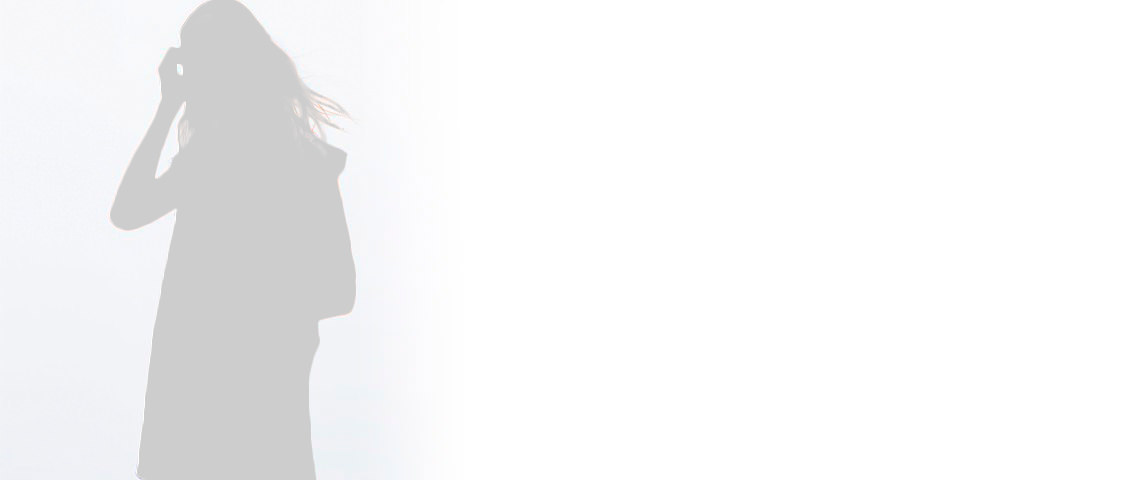
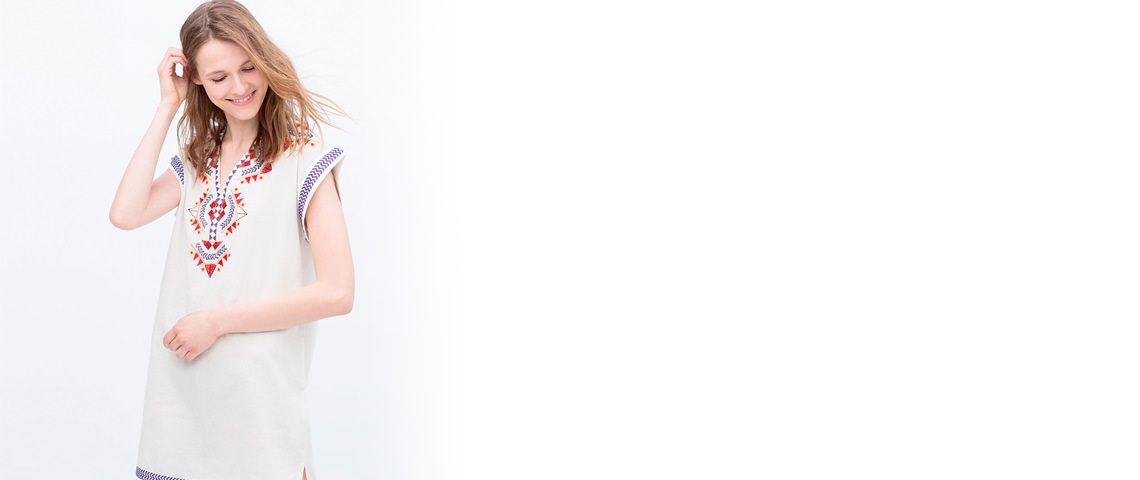
slider

Changed region(s): [[0.0921, 0.0, 0.3377, 1.0]]

diff --git a/src/app/component/slider/slider.component.html b/src/app/component/slider/slider.component.html
@@ -1,0 +1,48 @@
+<!-- Slider -->
+<div class="carousel slide" data-bs-ride="carousel">
+    <ol class="carousel-indicators">
+        <li data-bs-target="#fr-slider" data-bs-slide-to="0" class="color-ccc" [ngClass]="openActive1" (click)="changeSlider(0)"></li>
+        <li data-bs-target="#fr-slider" data-bs-slide-to="1" class="color-ccc" [ngClass]="openActive2" (click)="changeSlider(1)"></li>
+        <li data-bs-target="#fr-slider" data-bs-slide-to="2" class="color-ccc" [ngClass]="openActive3" (click)="changeSlider(2)"></li>
+    </ol>
+    <div class="carousel-inner">
+        <div class="carousel-item active">
+            <img src="{{ imageSlider }}" alt="">
+            <div class="carousel-caption" [innerHTML]="textSlider">
+                <!-- <h3>MEGA SALE -30%</h3>
+                <p>Winter collection for women's. <br>We all have choices for you. Check it out!</p>
+                <p class="fr-slider-more-wrap">
+                    <a class="fr-slider-more btn btn-primary" href="#">View collection</a>
+                </p> -->
+            </div>
+        </div>
+        <!-- <div class="carousel-item">
+            <img src="{{ imageSlider }}" alt="">
+            <div class="carousel-caption">
+                <h3>NEW COLLECTION</h3>
+                <p>Lorem ipsum dolor sit amet, consectetur adipisicing elit.<br>Aliquam consequuntur dolorem doloribus fuga harum</p>
+                <p class="fr-slider-more-wrap">
+                    <a class="fr-slider-more btn btn-primary" href="#">Shopping now</a>
+                </p>
+            </div>
+        </div>
+        <div class="carousel-item">
+            <img src="assets/client/img/slider/slide3.jpg" alt="">
+            <div class="carousel-caption">
+                <h3>SUMMER TRENDS</h3>
+                <p>Lorem ipsum dolor sit amet, consectetur adipisicing elit.<br>Aliquam consequuntur dolorem doloribus fuga harum</p>
+                <p class="fr-slider-more-wrap">
+                    <a class="fr-slider-more btn btn-primary" href="#">Start shopping</a>
+                </p>
+            </div>
+        </div> -->
+    </div>
+    <a class="carousel-control-prev" href="#fr-slider" role="button" data-bs-slide="prev">
+        <span class="carousel-control-prev-icon" aria-hidden="true"></span>
+        <span class="visually-hidden">Previous</span>
+    </a>
+    <a class="carousel-control-next" href="#fr-slider" role="button" data-bs-slide="next">
+        <span class="carousel-control-next-icon" aria-hidden="true"></span>
+        <span class="visually-hidden">Next</span>
+    </a>
+</div>

diff --git a/src/app/component/slider/slider.component.ts b/src/app/component/slider/slider.component.ts
@@ -1,0 +1,56 @@
+import { Component } from '@angular/core';
+
+@Component({
+  selector: 'app-slider',
+  templateUrl: './slider.component.html',
+  styleUrls: ['./slider.component.scss']
+})
+export class SliderComponent {
+  imageSlider: string = 'assets/client/img/slider/slide1.jpg';
+  textSliderConstant: string[] = ["<h3>MEGA SALE -30%</h3>" +
+  "<p>Winter collection for women's. <br>We all have choices for you. Check it out!</p>" +
+  '<p class="fr-slider-more-wrap">' +
+      '<a class="fr-slider-more btn btn-primary" href="#">View collection</a>' +
+  '</p>', 
+	"<h3>NEW COLLECTION</h3>" +
+  "<p>Lorem ipsum dolor sit amet, consectetur adipisicing elit.<br>Aliquam consequuntur dolorem doloribus fuga harum</p>" +
+  '<p class="fr-slider-more-wrap">' +
+      '<a class="fr-slider-more btn btn-primary" href="#">Shopping now</a>' +
+  '</p> '    ,
+
+  "<h3>SUMMER TRENDS</h3>" +
+  "<p>Lorem ipsum dolor sit amet, consectetur adipisicing elit.<br>Aliquam consequuntur dolorem doloribus fuga harum</p>" +
+  '<p class="fr-slider-more-wrap">' +
+  '<a class="fr-slider-more btn btn-primary" href="#">Start shopping</a>' +
+ '</p>']
+
+ openActive1: String = '';
+ openActive2: String = '';
+ openActive3: String = '';
+  textSlider: string = this.textSliderConstant[0];
+  changeSlider(index: number) {
+    switch (index) {
+      case 0:
+        this.imageSlider = 'assets/client/img/slider/slide1.jpg';
+        this.textSlider = this.textSliderConstant[0];
+        this.openActive1 = 'active';
+        this.openActive2 = '';
+        this.openActive3 = '';
+        break;
+      case 1:
+        this.imageSlider = 'assets/client/img/slider/slide2.jpg';
+        this.textSlider = this.textSliderConstant[1];
+        this.openActive1 = '';
+        this.openActive2 = 'active';
+        this.openActive3 = '';
+        break;
+      case 2:
+        this.imageSlider = 'assets/client/img/slider/slide3.jpg';
+        this.textSlider = this.textSliderConstant[2];
+        this.openActive1 = '';
+        this.openActive2 = '';
+        this.openActive3 = 'active';
+        break;
+    }
+  }
+}

diff --git a/src/app/component/slider/slider.component.scss b/src/app/component/slider/slider.component.scss
@@ -1,0 +1,25 @@
+.carousel-item {
+    position: relative;
+    /* Set các thuộc tính sau tùy vào thiết kế của bạn */
+    height: 100vh; /* Chiều cao của carousel-item */
+    // background: #000; /* Nền của carousel-item */
+}
+
+.carousel-caption {
+    position: absolute;
+    top: 40%; /* Vị trí dọc của carousel-caption */
+    left: 60%; /* Vị trí ngang của carousel-caption */
+    transform: translate(-50%, -50%); /* Dịch chuyển carousel-caption */
+    text-align: center; /* Canh giữa nội dung trong carousel-caption */
+    /* Set các thuộc tính sau tùy vào thiết kế của bạn */
+    color: #000000; /* Màu chữ trong carousel-item */
+    padding: 20px; /* Khoảng cách giữa nội dung trong carousel-caption và viền của carousel-caption */
+}
+
+.carousel-indicators {
+    bottom: 250px;
+}
+
+.color-ccc {
+    background-color: #ccc;
+}

diff --git a/src/app/component/slider/slider.component.spec.ts b/src/app/component/slider/slider.component.spec.ts
@@ -1,0 +1,23 @@
+import { ComponentFixture, TestBed } from '@angular/core/testing';
+
+import { SliderComponent } from './slider.component';
+
+describe('SliderComponent', () => {
+  let component: SliderComponent;
+  let fixture: ComponentFixture<SliderComponent>;
+
+  beforeEach(async () => {
+    await TestBed.configureTestingModule({
+      declarations: [ SliderComponent ]
+    })
+    .compileComponents();
+
+    fixture = TestBed.createComponent(SliderComponent);
+    component = fixture.componentInstance;
+    fixture.detectChanges();
+  });
+
+  it('should create', () => {
+    expect(component).toBeTruthy();
+  });
+});

diff --git a/src/app/app.module.ts b/src/app/app.module.ts
@@ -12,6 +12,7 @@ import { BrowserAnimationsModule } from '@angular/platform-browser/animations';
 import { BsDropdownModule } from 'ngx-bootstrap/dropdown';
 import { DropdownComponent } from './component/dropdown/dropdown.component';
 import { HttpClientModule } from '@angular/common/http';
+import { SliderComponent } from './component/slider/slider.component';
 
 
 @NgModule({
@@ -21,7 +22,8 @@ import { HttpClientModule } from '@angular/common/http';
     FooterComponent,
     HomeComponent,
     ErrorComponent,
-    DropdownComponent
+    DropdownComponent,
+    SliderComponent
   ],
   imports: [
     BrowserModule,

diff --git a/src/styles.scss b/src/styles.scss
@@ -21,6 +21,13 @@
     height: 36px;
 }
 
+body {
+    /* Thiết lập các thuộc tính sau để footer không bị che bởi scrollbar */
+    min-height: 100vh;
+    position: relative;
+    padding-bottom: 100px; /* Chiều cao của footer */
+}
+
 /* Importing Bootstrap SCSS file. */
 @import "./node_modules/bootstrap/scss/bootstrap";
 

diff --git a/src/app/views/home/home.component.html b/src/app/views/home/home.component.html
@@ -1,1 +1,5 @@
-<p>home works!</p>
+<main>
+    <section class="container">
+        <app-slider></app-slider>
+    </section>
+</main>
